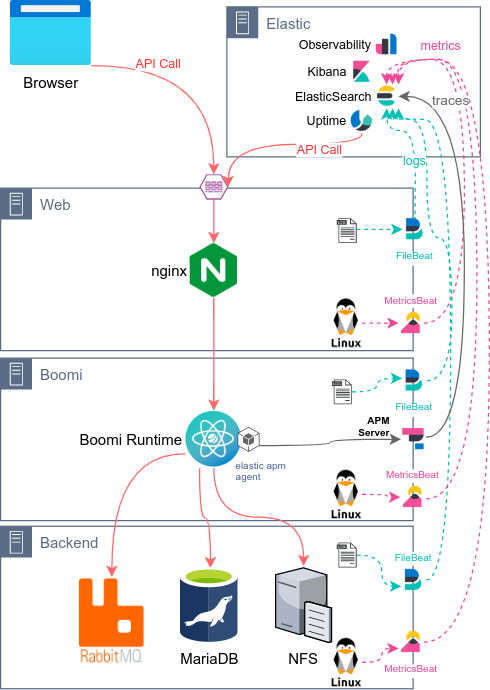
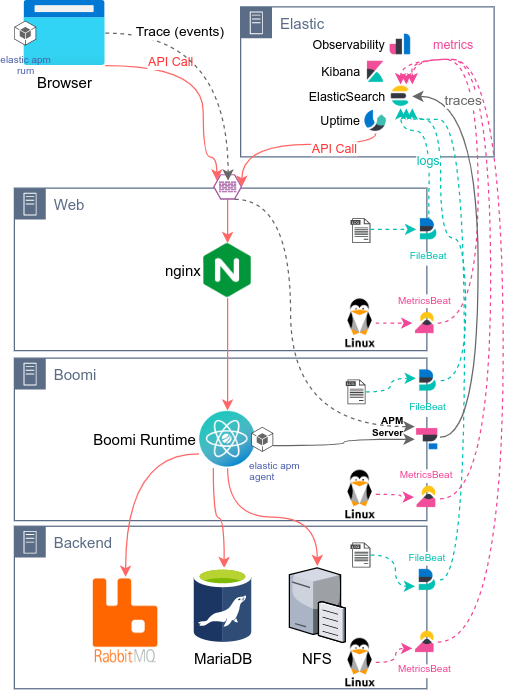
- Update of OpenTelemetryTracer - More try/catch - Fixing, payload InputStream empty

diff --git a/src/main/java/com/boomi/proserv/apm/tracer/OpenTelemetryTracer.java b/src/main/java/com/boomi/proserv/apm/tracer/OpenTelemetryTracer.java
@@ -3,11 +3,34 @@ package com.boomi.proserv.apm.tracer;
 import com.boomi.connector.api.PayloadMetadata;
 import com.boomi.proserv.apm.BoomiContext;
 
+import com.sun.net.httpserver.Headers;
+import com.sun.net.httpserver.HttpContext;
+import com.sun.net.httpserver.HttpExchange;
+import com.sun.net.httpserver.HttpPrincipal;
+import io.opentelemetry.api.GlobalOpenTelemetry;
 import io.opentelemetry.api.OpenTelemetry;
 import io.opentelemetry.api.trace.SpanKind;
 import io.opentelemetry.api.trace.Span;
 import io.opentelemetry.api.trace.StatusCode;
+import io.opentelemetry.api.trace.propagation.W3CTraceContextPropagator;
+import io.opentelemetry.context.Context;
+import io.opentelemetry.context.Scope;
+import io.opentelemetry.context.propagation.ContextPropagators;
+import io.opentelemetry.context.propagation.TextMapGetter;
+import io.opentelemetry.exporter.logging.LoggingSpanExporter;
+import io.opentelemetry.exporter.otlp.trace.OtlpGrpcSpanExporter;
+import io.opentelemetry.sdk.OpenTelemetrySdk;
+import io.opentelemetry.sdk.autoconfigure.OpenTelemetrySdkAutoConfiguration;
+import io.opentelemetry.sdk.trace.SdkTracerProvider;
+import io.opentelemetry.sdk.trace.export.BatchSpanProcessor;
+import io.opentelemetry.sdk.trace.export.SimpleSpanProcessor;
 
+import javax.annotation.Nullable;
+import java.io.IOException;
+import java.io.InputStream;
+import java.io.OutputStream;
+import java.net.InetSocketAddress;
+import java.net.URI;
 import java.util.Map;
 import java.util.logging.Logger;
 
@@ -16,12 +39,33 @@ public class OpenTelemetryTracer extends Tracer {
 
     public void start(Logger logger, BoomiContext context, String rtProcess, String document, Map<String, String> dynProps, Map<String, String> properties, PayloadMetadata metadata) {
         try {
-            logger.info("Adding OpenTelemetry trace ...");
+            logger.info("Looking for OpenTelemetry trace ...");
+            OpenTelemetry openTelemetry;
+
             Span span = Span.current();
-            if(span==null || !span.getSpanContext().isValid()) {
-                io.opentelemetry.api.trace.Tracer tracer = OpenTelemetry.noop().getTracer(s_serviceName, s_serviceVersion);
-                span = tracer.spanBuilder(context.getProcessName()).setSpanKind(SpanKind.CLIENT).startSpan();
+            RealTimeProcessing realTimeProcessing = RealTimeProcessing.getValue(rtProcess);
+
+            try {
+                logger.info("Using GlobalOpenTelemetry ...");
+                openTelemetry = GlobalOpenTelemetry.get();
+            } catch (Exception e ){
+                logger.severe("Unable to use GlobalOpenTelemetry " + e);
+                openTelemetry = OpenTelemetry.noop();
+            }
+
+            io.opentelemetry.api.trace.Tracer tracer = openTelemetry.getTracer(s_serviceName, s_serviceVersion);
+            if (RealTimeProcessing.w3c.equals(realTimeProcessing) && getTraceparent(properties) != null) {
+                logger.info("Continuing transaction using w3c header ...");
+                Context extractedContext    = openTelemetry.getPropagators().getTextMapPropagator().extract(Context.current(), getExchange(this, properties), getGetter());
+                Scope scope                 = extractedContext.makeCurrent();
+                span                        = tracer.spanBuilder(context.getProcessName()).setParent(extractedContext).setSpanKind(SpanKind.SERVER).startSpan();
+            } else if(span==null || !span.getSpanContext().isValid()) {
+                logger.info("Trace not found...");
+                logger.info("Creating OpenTelemetry trace ...");
+                span = tracer.spanBuilder(context.getProcessName()).setSpanKind(SpanKind.SERVER).startSpan();
                 span.makeCurrent();
+            } else {
+                logger.info("Trace found, setting tags ...");
             }
             setTraceId(logger, span.getSpanContext().getTraceId(), metadata);
             span.setAttribute(BOOMI_EXECUTION_ID, context.getExecutionId());
@@ -79,5 +123,97 @@ public class OpenTelemetryTracer extends Tracer {
                 }
             }
         }
+    }
+
+    protected static TextMapGetter getGetter(){
+        TextMapGetter<HttpExchange> getter =
+            new TextMapGetter<HttpExchange>() {
+                @Override
+                public String get(HttpExchange carrier, String key) {
+                    if (carrier.getRequestHeaders().containsKey(key)) {
+                        return carrier.getRequestHeaders().get(key).get(0);
+                    }
+                    return null;
+                }
+
+                @Override
+                public Iterable<String> keys(HttpExchange carrier) {
+                    return carrier.getRequestHeaders().keySet();
+                }
+            };
+        return getter;
+    }
+
+    protected static HttpExchange getExchange(Tracer tracer, Map<String, String> properties) {
+        return new HttpExchange() {
+            @Override
+            public Headers getRequestHeaders() {
+                Headers headers = new Headers();
+                String traceparent = tracer.getTraceparent(properties);
+                headers.add(tracer.TRACEPARENT, traceparent);
+                return headers;
+            }
+            @Override
+            public Headers getResponseHeaders() {
+                return null;
+            }
+            @Override
+            public URI getRequestURI() {
+                return null;
+            }
+            @Override
+            public String getRequestMethod() {
+                return null;
+            }
+            @Override
+            public HttpContext getHttpContext() {
+                return null;
+            }
+            @Override
+            public void close() {
+            }
+            @Override
+            public InputStream getRequestBody() {
+                return null;
+            }
+            @Override
+            public OutputStream getResponseBody() {
+                return null;
+            }
+            @Override
+            public void sendResponseHeaders(int i, long l) throws IOException {
+
+            }
+            @Override
+            public InetSocketAddress getRemoteAddress() {
+                return null;
+            }
+            @Override
+            public int getResponseCode() {
+                return 0;
+            }
+            @Override
+            public InetSocketAddress getLocalAddress() {
+                return null;
+            }
+            @Override
+            public String getProtocol() {
+                return null;
+            }
+            @Override
+            public Object getAttribute(String s) {
+                return null;
+            }
+            @Override
+            public void setAttribute(String s, Object o) {
+            }
+            @Override
+            public void setStreams(InputStream inputStream, OutputStream outputStream) {
+            }
+            @Override
+            public HttpPrincipal getPrincipal() {
+                return null;
+            }
+        };
     }
 }

diff --git a/src/main/java/com/boomi/proserv/apm/tracer/AppDynamicsTracer.java b/src/main/java/com/boomi/proserv/apm/tracer/AppDynamicsTracer.java
@@ -3,6 +3,7 @@ package com.boomi.proserv.apm.tracer;
 import com.appdynamics.agent.api.AppdynamicsAgent;
 import com.appdynamics.agent.api.EntryTypes;
 import com.appdynamics.agent.api.Transaction;
+import com.appdynamics.agent.api.impl.NoOpTransaction;
 import com.appdynamics.apm.appagent.api.DataScope;
 import com.boomi.connector.api.PayloadMetadata;
 import com.boomi.proserv.apm.BoomiContext;
@@ -19,14 +20,13 @@ public class AppDynamicsTracer extends Tracer {
         try {
             logger.info("Adding AppDynamics trace ...");
             Transaction transaction = AppdynamicsAgent.getTransaction();
-            if(transaction == null) {
+            if(transaction == null || transaction instanceof NoOpTransaction) {
                 logger.info("Starting new AppDynamics transaction");
-                transaction = AppdynamicsAgent.startTransaction(context.getProcessName(), null, EntryTypes.POJO, true);
+                transaction = AppdynamicsAgent.startTransaction(context.getProcessNameAlphanum(), null, EntryTypes.POJO, false);
             } else {
                 logger.info("Continuing AppDynamics transaction");
-                AppdynamicsAgent.setCurrentTransactionName(context.getProcessName());
+                AppdynamicsAgent.setCurrentTransactionName(context.getProcessNameAlphanum());
             }
-
 
             Set<DataScope> dataScopes = getAllScopes();
             transaction.collectData(BOOMI_EXECUTION_ID, context.getExecutionId(), dataScopes);
@@ -45,7 +45,7 @@ public class AppDynamicsTracer extends Tracer {
             logger.info("Ending AppDynamics trace ...");
             Transaction transaction = AppdynamicsAgent.getTransaction();
             if(transaction != null) {
-                transaction.endSegment();
+                transaction.end();
             } else {
                 logger.info("AppDynamics trace not found");
             }

diff --git a/src/main/java/com/boomi/connector/apm/BoomiAPMExecuteOperation.java b/src/main/java/com/boomi/connector/apm/BoomiAPMExecuteOperation.java
@@ -69,7 +69,12 @@ public class BoomiAPMExecuteOperation extends BaseUpdateOperation {
 
 		BoomiContext boomiContext 	= new BoomiContext(serviceName, executionID, processName, processID, accountID);
 		PayloadMetadata metadata 	= response.createMetadata();
-		Tracer tracer 				= TracerFactory.getTracer(platform);
+		Tracer tracer				= null;
+		try {
+			tracer = TracerFactory.getTracer(platform);
+		} catch (Exception e) {
+			logger.log(Level.SEVERE, "ARA: Error initializing the tracer:", e);
+		}
 
 		int payloadSize				= 1;
 		if (request instanceof Collection) {
@@ -82,7 +87,7 @@ public class BoomiAPMExecuteOperation extends BaseUpdateOperation {
 				log(logger, log, "ARA: Processing documents ...");
 
 				String message 					= BoomiAPMConnector.inputStreamToString(input.getData());
-				InputStream result  			= input.getData();
+				InputStream result  			= BoomiAPMConnector.stringToInputStream(message);
 				Map<String, String> dynProps	= input.getDynamicProperties();
 				Map<String, String> props 		= input.getUserDefinedProperties();
 

diff --git a/src/main/java/com/boomi/proserv/apm/BoomiContext.java b/src/main/java/com/boomi/proserv/apm/BoomiContext.java
@@ -4,6 +4,7 @@ public class BoomiContext {
     public String serviceName;
     public String executionId;
     public String processName;
+    private String processNameClean;
     public String processId;
     public String accountId;
 
@@ -41,6 +42,14 @@ public class BoomiContext {
 
     public String getProcessName() {
         return processName;
+    }
+
+    public String getProcessNameAlphanum() {
+        if(processNameClean == null) {
+            processNameClean = processName.replaceAll("[^a-zA-Z0-9]", " ");
+            processNameClean = processNameClean.trim().replaceAll("\\s+", " ");
+        }
+        return processNameClean;
     }
 
     public void setProcessName(String processName) {

diff --git a/src/main/java/com/boomi/connector/apm/BoomiAPMConnector.java b/src/main/java/com/boomi/connector/apm/BoomiAPMConnector.java
@@ -1,9 +1,6 @@
 package com.boomi.connector.apm;
 
-import java.io.BufferedReader;
-import java.io.IOException;
-import java.io.InputStream;
-import java.io.InputStreamReader;
+import java.io.*;
 import java.util.stream.Collectors;
 
 import com.boomi.connector.api.BrowseContext;
@@ -49,4 +46,14 @@ public class BoomiAPMConnector extends BaseConnector {
 			return buffer.lines().collect(Collectors.joining("\n"));
 		}
 	}
+
+    /**
+     * Utility to convert String to InputStream
+     * @param str
+     * @return
+     * @throws IOException
+     */
+    public static InputStream stringToInputStream(String str) throws IOException {
+        return new ByteArrayInputStream(str.getBytes());
+    }
 }

diff --git a/src/test/java/com/boomi/proserv/OpenTelemetryTracerTest.java b/src/test/java/com/boomi/proserv/OpenTelemetryTracerTest.java
@@ -1,7 +1,6 @@
 package com.boomi.proserv;
 
 import com.boomi.proserv.apm.BoomiContext;
-import com.boomi.proserv.apm.events.DatadogEventsPublisher;
 import com.boomi.proserv.apm.tracer.Tracer;
 import com.boomi.proserv.apm.tracer.TracerFactory;
 import org.junit.jupiter.api.Test;
